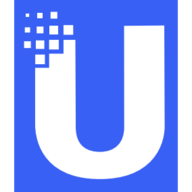
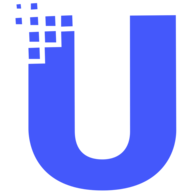
更换logo和favicon

diff --git a/_sass/components/_header.scss b/_sass/components/_header.scss
@@ -64,9 +64,9 @@
   @include flexbox();
   @include align-items(center);
   & > svg {
-    width: map-get($base, font-size-h4) * 1.6;
-    height: map-get($base, font-size-h4) * 1.6;
-    margin-right: map-get($spacers, 3);
+    width: 1.42rem;
+    height: 1.42rem;
+    margin-right: .6rem;
     vertical-align: middle;
     @include media-breakpoint-down(md) {
       width: map-get($base, font-size-h4) * 1.2;

diff --git a/_sass/skins/_default.scss b/_sass/skins/_default.scss
@@ -5,7 +5,7 @@
 ///
 
 // main colors
-$main-color-1:     #fc4d50;
+$main-color-1:    #3860f4;
 $text-color-1:     #fff;
 
 $main-color-2:     #fca24d;
